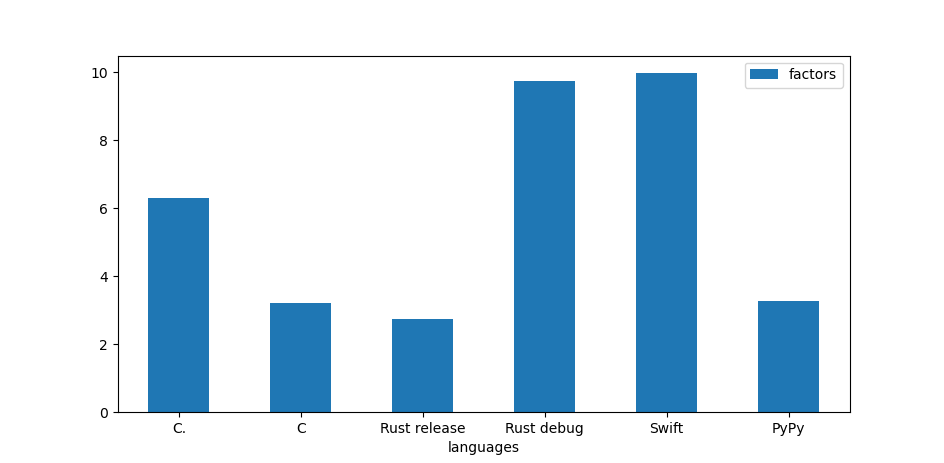
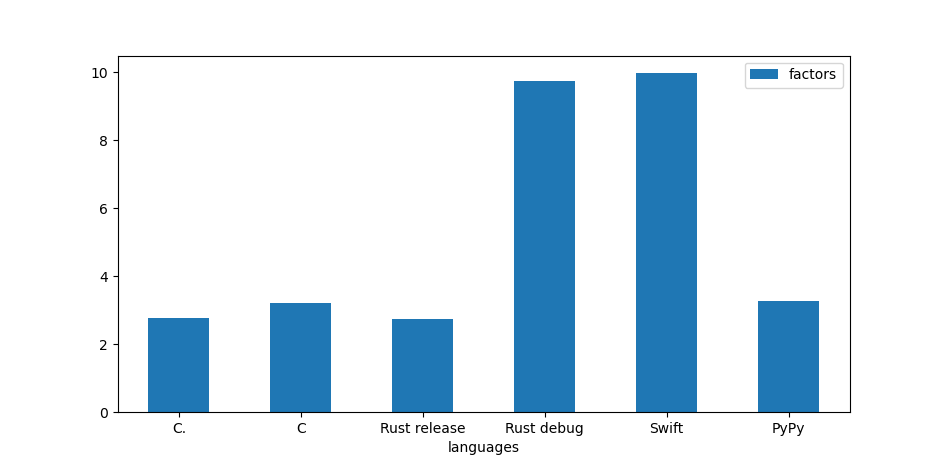
make bools returned by operators real bools and not doubles

Changed region(s): [[0.1536, 0.4233, 0.2458, 0.6955]]

diff --git a/src/codegen.cpp b/src/codegen.cpp
@@ -1018,7 +1018,7 @@ Value* MatchExprAST::codegen(){
             return LogErrorV(this->loc, "Couldn't find the member of this enum in match case");
         }
         Value* cmp = operators::LLVMCreateCmp(tag, ConstantInt::get(get_type_llvm(int_type), APInt(32, (uint64_t)pos)));
-        cmp = Builder->CreateFCmpONE(cmp, ConstantFP::get(*TheContext, APFloat(0.0)), "ifcond");
+        //cmp = Builder->CreateFCmpONE(cmp, ConstantFP::get(*TheContext, APFloat(0.0)), "ifcond");
         BasicBlock *ThenBB = BasicBlock::Create(*TheContext, "then_match", TheFunction);
         ElseBB = BasicBlock::Create(*TheContext, "else_match");
         Builder->CreateCondBr(cmp, ThenBB, ElseBB);
@@ -1181,13 +1181,15 @@ Value *BinaryExprAST::codegen() {
     return operators::LLVMCreateGreaterThan(L, R);
   case '^':
     L = Builder->CreateXor(L, R, "xortmp");
-    return Builder->CreateUIToFP(L, Type::getDoubleTy(*TheContext), "booltmp");
+    return L;
+    //return Builder->CreateUIToFP(L, Type::getDoubleTy(*TheContext), "booltmp");
   case '&':
     //return operators::LLVMCreateLogicalOr(L, R);
     return operators::LLVMCreateAnd(L, R);
   case '|':
     L = Builder->CreateOr(L, R, "ortmp");
-    return Builder->CreateUIToFP(L, Type::getDoubleTy(*TheContext), "booltmp");
+    return L;
+    //return Builder->CreateUIToFP(L, Type::getDoubleTy(*TheContext), "booltmp");
 #if ARRAY_MEMBER_OPERATOR_IMPL
   case '[':
     // TODO get from rhs and lhs with getelementptr the array member
@@ -1843,13 +1845,17 @@ Value *IfExprAST::codegen() {
   if (!CondV)
     return nullptr;
 
-  if (CondV->getType() == get_type_llvm(Cpoint_Type(bool_type))){
+  /*if (CondV->getType() == get_type_llvm(Cpoint_Type(bool_type))){
     Log::Info() << "Got bool i1 to if" << "\n";
     convert_to_type(Cpoint_Type(bool_type), get_type_llvm(Cpoint_Type(double_type)), CondV);
+  }*/
+  if (CondV->getType() != get_type_llvm(Cpoint_Type(bool_type))){
+    // TODO : create default comparisons : if is pointer, compare to null, if number compare to 1, etc
+    Log::Info() << "Got bool i1 to if" << "\n";
+    convert_to_type(get_cpoint_type_from_llvm(CondV->getType()), get_type_llvm(Cpoint_Type(bool_type)), CondV);
   }
   // Convert condition to a bool by comparing non-equal to 0.0.
-  CondV = Builder->CreateFCmpONE(
-      CondV, ConstantFP::get(*TheContext, APFloat(0.0)), "ifcond");
+  //CondV = Builder->CreateFCmpONE(CondV, ConstantFP::get(*TheContext, APFloat(0.0)), "ifcond");
 
   Function *TheFunction = Builder->GetInsertBlock()->getParent();
 
@@ -2304,9 +2310,10 @@ Value* LoopExprAST::codegen(){
     Builder->SetInsertPoint(CmpLoop);
     Value* PosVal = Builder->CreateLoad(PosArrayAlloca->getAllocatedType(), PosArrayAlloca, "load_pos_loop_in");
     Value* isLoopFinishedVal = Builder->CreateFCmpOLT(PosVal, SizeArrayVal,"cmptmp_loop_in");  // if is less than
-    Value* isLoopFinishedValFP = Builder->CreateUIToFP(isLoopFinishedVal, Type::getDoubleTy(*TheContext), "booltmp_loop_in");
-    Value* isLoopFinishedBoolVal = Builder->CreateFCmpONE(isLoopFinishedValFP, ConstantFP::get(*TheContext, APFloat(0.0)), "loopcond_loop_in");
-    Builder->CreateCondBr(isLoopFinishedBoolVal, InLoop, AfterLoop);
+    //Value* isLoopFinishedValFP = Builder->CreateUIToFP(isLoopFinishedVal, Type::getDoubleTy(*TheContext), "booltmp_loop_in");
+    //Value* isLoopFinishedBoolVal = Builder->CreateFCmpONE(isLoopFinishedValFP, ConstantFP::get(*TheContext, APFloat(0.0)), "loopcond_loop_in");
+    //Builder->CreateCondBr(isLoopFinishedBoolVal, InLoop, AfterLoop);
+    Builder->CreateCondBr(isLoopFinishedVal, InLoop, AfterLoop);
     
     Builder->SetInsertPoint(InLoop);
     // initalize here the temp variable to have the value of the array
@@ -2344,8 +2351,7 @@ Value* WhileExprAST::codegen(){
   Value *CondV = Cond->codegen();
   if (!CondV)
     return nullptr;
-  CondV = Builder->CreateFCmpONE(
-    CondV, ConstantFP::get(*TheContext, APFloat(0.0)), "loopcond_while");
+  //CondV = Builder->CreateFCmpONE(CondV, ConstantFP::get(*TheContext, APFloat(0.0)), "loopcond_while");
   BasicBlock *AfterBB =
       BasicBlock::Create(*TheContext, "afterloop_while", TheFunction);
 
@@ -2398,8 +2404,7 @@ Value *ForExprAST::codegen(){
   Value *EndCond = End->codegen();
   if (!EndCond)
     return nullptr;
-  EndCond = Builder->CreateFCmpONE(
-      EndCond, ConstantFP::get(*TheContext, APFloat(0.0)), "loopcond_for");
+  //EndCond = Builder->CreateFCmpONE(EndCond, ConstantFP::get(*TheContext, APFloat(0.0)), "loopcond_for");
   BasicBlock *LoopBB = BasicBlock::Create(*TheContext, "loop_for", TheFunction);
   BasicBlock *AfterBB = BasicBlock::Create(*TheContext, "afterloop", TheFunction);
   Builder->CreateCondBr(EndCond, LoopBB, AfterBB);

diff --git a/src/operators.cpp b/src/operators.cpp
@@ -61,7 +61,8 @@ Value* LLVMCreateCmp(Value* L, Value* R){
     } else {
       L = Builder->CreateFCmpUEQ(L, R, "cmptmp");
     }
-    return Builder->CreateUIToFP(L, get_type_llvm(Cpoint_Type(double_type)), "booltmp");
+    return L;
+    //return Builder->CreateUIToFP(L, get_type_llvm(Cpoint_Type(double_type)), "booltmp");
 }
 
 Value* LLVMCreateNotEqualCmp(Value* L, Value* R){
@@ -70,7 +71,8 @@ Value* LLVMCreateNotEqualCmp(Value* L, Value* R){
     } else {
         L = Builder->CreateFCmpUNE(L, R, "notequalfcmptmp");
     }
-    return Builder->CreateUIToFP(L, get_type_llvm(Cpoint_Type(double_type)), "booltmp");
+    return L;
+    //return Builder->CreateUIToFP(L, get_type_llvm(Cpoint_Type(double_type)), "booltmp");
 }
 
 Value* LLVMCreateGreaterThan(Value* L, Value* R){
@@ -79,7 +81,8 @@ Value* LLVMCreateGreaterThan(Value* L, Value* R){
     } else {
       L = Builder->CreateFCmpOGT(L, R, "cmptmp");
     }
-    return Builder->CreateUIToFP(L, get_type_llvm(Cpoint_Type(double_type)), "booltmp");
+    return L;
+    //return Builder->CreateUIToFP(L, get_type_llvm(Cpoint_Type(double_type)), "booltmp");
 }
 
 Value* LLVMCreateGreaterOrEqualThan(Value* L, Value* R){
@@ -88,7 +91,8 @@ Value* LLVMCreateGreaterOrEqualThan(Value* L, Value* R){
     } else {
         L = Builder->CreateFCmpOGE(L, R, "cmptmp");
     }
-    return Builder->CreateUIToFP(L, get_type_llvm(Cpoint_Type(double_type)), "booltmp");
+    return L;
+    //return Builder->CreateUIToFP(L, get_type_llvm(Cpoint_Type(double_type)), "booltmp");
 }
 
 Value* LLVMCreateSmallerThan(Value* L, Value* R){
@@ -98,7 +102,8 @@ Value* LLVMCreateSmallerThan(Value* L, Value* R){
       L = Builder->CreateFCmpOLT(L, R, "cmptmp");
     }
     // Convert bool 0/1 to double 0.0 or 1.0
-    return Builder->CreateUIToFP(L, get_type_llvm(Cpoint_Type(double_type)), "booltmp");
+    return L;
+    //return Builder->CreateUIToFP(L, get_type_llvm(Cpoint_Type(double_type)), "booltmp");
 }
 
 Value* LLVMCreateSmallerOrEqualThan(Value* L, Value* R){
@@ -107,17 +112,20 @@ Value* LLVMCreateSmallerOrEqualThan(Value* L, Value* R){
     } else {
         L = Builder->CreateFCmpOLE(L, R, "cmptmp");
     }
-    return Builder->CreateUIToFP(L, get_type_llvm(Cpoint_Type(double_type)), "booltmp");
+    return L;
+    //return Builder->CreateUIToFP(L, get_type_llvm(Cpoint_Type(double_type)), "booltmp");
 }
 
 Value* LLVMCreateLogicalOr(Value* L, Value* R){
     L = Builder->CreateOr(L, R, "logicalortmp");
-    return Builder->CreateUIToFP(L, get_type_llvm(Cpoint_Type(double_type)), "booltmp");
+    return L;
+    //return Builder->CreateUIToFP(L, get_type_llvm(Cpoint_Type(double_type)), "booltmp");
 }
 
 Value* LLVMCreateLogicalAnd(Value* L, Value* R){
     L = Builder->CreateAnd(L, R, "logicalandtmp");
-    return Builder->CreateUIToFP(L, get_type_llvm(Cpoint_Type(double_type)), "booltmp");
+    return L;
+    //return Builder->CreateUIToFP(L, get_type_llvm(Cpoint_Type(double_type)), "booltmp");
 }
 
 Value* LLVMCreateAnd(Value* L, Value* R){

diff --git a/src/checking.cpp b/src/checking.cpp
@@ -45,8 +45,7 @@ Value* bound_checking_dynamic_index_array_member(Value* index, Cpoint_Type cpoin
     //Value* CondV = ConstantFP::get(*TheContext, APFloat((double)0));
     if (!CondV)
       return nullptr;
-    CondV = Builder->CreateFCmpONE(
-      CondV, ConstantFP::get(*TheContext, APFloat(0.0)), "ifcond");
+    //CondV = Builder->CreateFCmpONE(CondV, ConstantFP::get(*TheContext, APFloat(0.0)), "ifcond");
     Function *TheFunction = Builder->GetInsertBlock()->getParent();
     BasicBlock *ThenBB = BasicBlock::Create(*TheContext, "bound_checking_then", TheFunction);
     BasicBlock *AfterBB = BasicBlock::Create(*TheContext, "bound_checking_after", TheFunction);

diff --git a/docs/tools/graph.py b/docs/tools/graph.py
@@ -7,8 +7,9 @@ import sys
 
 is_saving = False
 
-if sys.argv[1] == "--save":
-    is_saving = True
+if len(sys.argv) > 1:
+    if sys.argv[1] == "--save":
+        is_saving = True
 
 df = pd.read_csv("benchmarks.csv")
 

diff --git a/README.md b/README.md
@@ -88,8 +88,9 @@ You can compile C. code to wasm using the ```-target-triplet wasm32-unknown-wasi
 - [x] Only generate the externs when functions are called
 - [x] Make import work on struct templates (copy the functions instead of generating externs) (see test21.cpoint)
 - [x] Make no_gc work directly with the cpoint compiler without cpoint-build (then make "make run" have -no-gc in the Makefile)
-- [ ] Make bools returned by operators and in for loops,etc i1s and not doubles
+- [x] Make bools returned by operators and in for loops,etc i1s and not doubles
 - [x] Add stripping mode to the compiler and the build system
+- [ ] rerun benchmarks using hyperfine
 
 ## Benchmarks compared to other languages
 

diff --git a/docs/benchmarks.md b/docs/benchmarks.md
@@ -6,8 +6,8 @@ The benchmark are run on a sytem with a ryzen 5 5600g, 32go of ram and running M
 
 Finding the 50th Fibonacci number using a recursive function
 
-C. : 137.688s  
-C (gcc 13.1.1) : 146.497s  
+C. : 136.970s  
+C (gcc 13.2.1) : 145.179s  
 Rust release (rustc 1.73.0) : 73.856s  
 Rust debug (rustc 1.73.0) : 237.043s  
 Nim 2.0.0 release :  40.671s  
@@ -26,7 +26,7 @@ Nodejs v20.9.0 : 332.740s
 
 Finding the factors of 2,000,000,000
 
-C. : 6.292s  
+C. : 2.772s  
 C (gcc 13.2.1) : 3.213s 
 Rust release (rustc 1.73.0) : 2.726s 
 Rust debug (rustc 1.73.0) : 9.742s  
